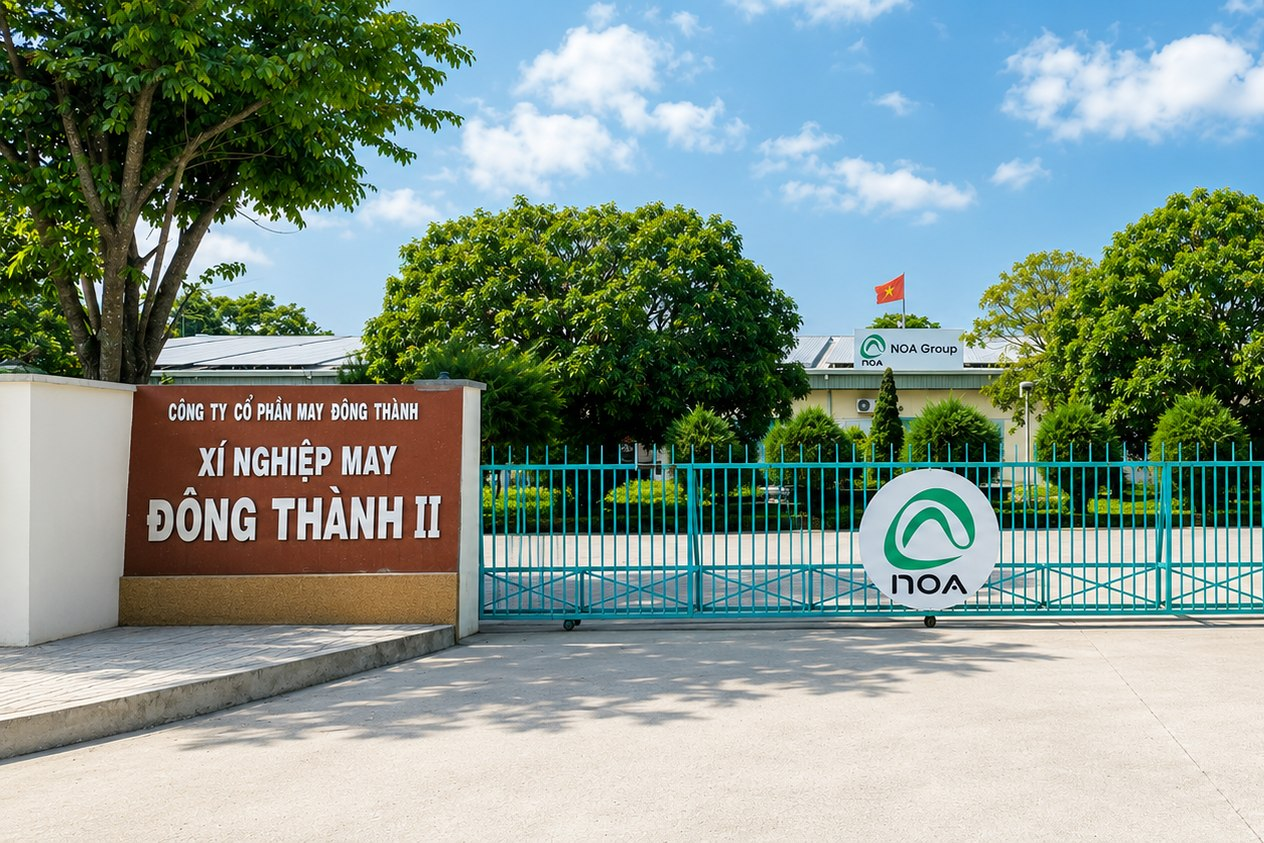
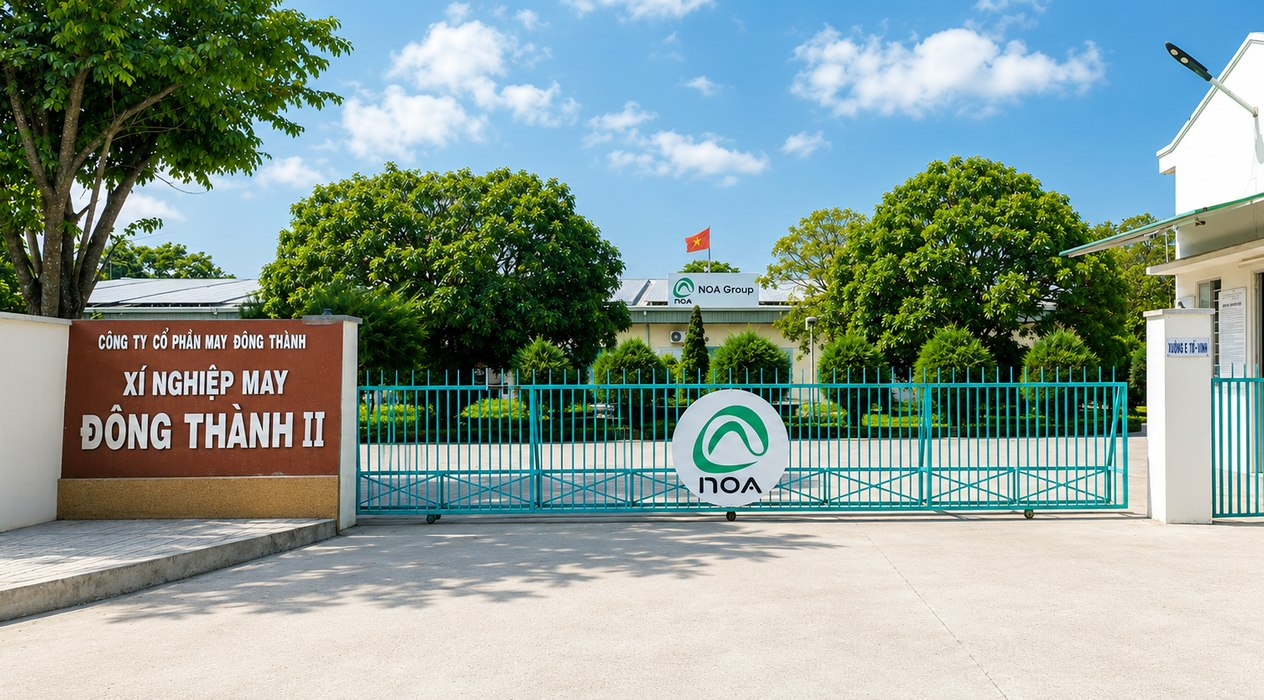
Crop lai anh 2 xi nghiep can doi hon (ty le 1264x700, cat nhe 2 ben, van giu du chu bien ten)

diff --git a/public/profile.html b/public/profile.html
@@ -97,11 +97,11 @@
       <div class="container">
         <div class="facility-photos">
           <div class="media-frame" data-reveal>
-            <img src="assets/img/gallery/g17.jpg" alt="Trụ sở chính - Xí nghiệp May Đông Thành 1 tại TP. Quảng Ngãi" width="1264" height="843">
+            <img src="assets/img/gallery/g17.jpg?v=2" alt="Trụ sở chính - Xí nghiệp May Đông Thành 1 tại TP. Quảng Ngãi" width="1264" height="700">
             <span class="media-tag" data-en="Headquarters — Factory 1">Trụ sở chính - Xí nghiệp May Đông Thành 1</span>
           </div>
           <div class="media-frame" data-reveal data-reveal-delay="1">
-            <img src="assets/img/gallery/g16.jpg?v=3" alt="Xí nghiệp May Đông Thành 2 tại KCN Tịnh Phong, Sơn Tịnh" width="1264" height="843">
+            <img src="assets/img/gallery/g16.jpg?v=4" alt="Xí nghiệp May Đông Thành 2 tại KCN Tịnh Phong, Sơn Tịnh" width="1264" height="700">
             <span class="media-tag" data-en="Factory 2 — Tinh Phong Industrial Park, Son Tinh">Xí nghiệp May Đông Thành 2 — KCN Tịnh Phong, Sơn Tịnh</span>
           </div>
         </div>
